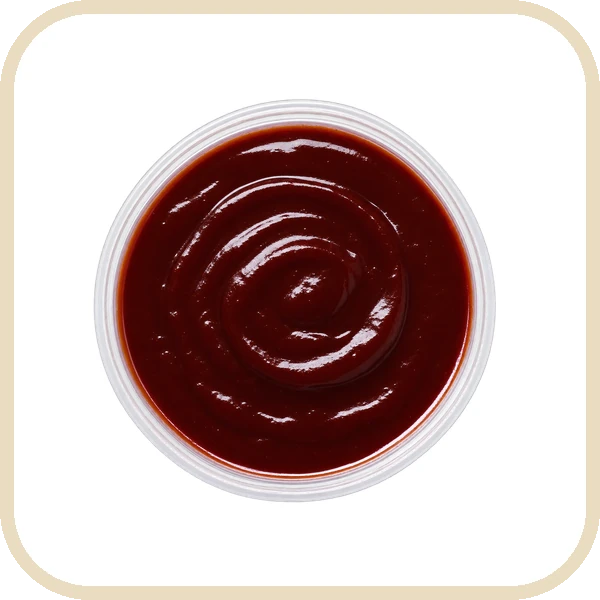
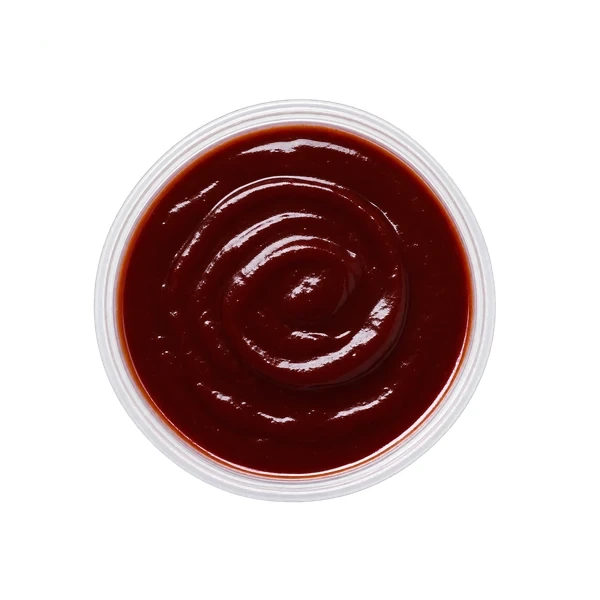
Add files via upload

Changed region(s): [[0.0, 0.0, 1.0, 1.0]]

diff --git a/local-defaults.js b/local-defaults.js
@@ -4,7 +4,7 @@
    Si cambias "version", los valores guardados antes se descartan y vuelven estos.
    ===================================================================== */
 const LOCAL_DEFAULTS = {
-  version: 6,
+  version: 7,
   /* Productos que NO se muestran en el local: los combos de la carta online (el local tiene los suyos). */
   disabledProducts: ["combo-famiglia","combo-doble-capo","combo-mafioso"],
   /* Productos que solo existen en el local. Van al principio de su sección. */
@@ -50,6 +50,8 @@ const LOCAL_DEFAULTS = {
     "combo-complices": { noun:"slices", title:"ELIGE TUS SLICES", items:[
       { n:"Tony Pepperoni", img:"/fotos/local/slice-pepperoni.webp" }, { n:"Funghi", img:"/fotos/local/slice-funghi.webp" },
       { n:"Il Traditore", img:"/fotos/local/slice-pollo-bbq.webp" }, { n:"Margarita", img:"/fotos/local/slice-margarita.webp" } ] },
+    "combo-duo-del-don": { noun:"pastas", title:"ELIGE TUS PASTAS", items:[ { n:"Fetuccini Pesto", img:"/fetuccini-pesto.webp" }, { n:"Fetuccini Alfredo", img:"/fetuccini-alfredo.webp" }, { n:"Fetuccini Bolognesa", img:"/fetuccini-bolognesa.webp" } ] },
+    "l-pasta-familia": { noun:"pastas", title:"ELIGE TUS PASTAS", items:[ { n:"Fetuccini Pesto", img:"/fetuccini-pesto.webp" }, { n:"Fetuccini Alfredo", img:"/fetuccini-alfredo.webp" }, { n:"Fetuccini Bolognesa", img:"/fetuccini-bolognesa.webp" } ] },
     "l-familiar": { noun:"pizzas", title:"ELIGE TU PIZZA XXL", items:[
       { n:"Margarita", img:"/fotos/local/margarita.webp", p:"$24.990" }, { n:"Funghi", img:"/fotos/local/funghi.webp", p:"$24.990" },
       { n:"Tony Pepperoni", img:"/fotos/local/pepperoni.webp", p:"$29.990" }, { n:"Il Traditore", img:"/fotos/local/pollo-bbq.webp", p:"$29.990" },

diff --git a/index.html b/index.html
@@ -91,6 +91,7 @@ main{max-width:1160px;margin:0 auto;padding:0 20px}
 @media(min-width:880px){.list{grid-template-columns:1fr 1fr}}
 
 .item{display:grid;grid-template-columns:minmax(0,1fr) auto;gap:12px 16px;padding:22px 0;border-bottom:1px solid var(--line)}
+#toppings .item .media::after{content:"";position:absolute;inset:0;border:3px solid #E9DCC0;border-radius:16px;pointer-events:none;z-index:3}
 .item .media img.dish{opacity:0;transition:opacity .28s ease}.item .media img.dish.ld{opacity:1}
 .item[hidden],.cat[hidden]{display:none!important}
 .item h3{font:400 24px/1.05 var(--serif);letter-spacing:.03em}
@@ -1557,9 +1558,9 @@ const photoSrc = (it, pi=-1) => {
   return assetPath(f);
 };
 const CART_PHOTO_OVERRIDES = {
-  "top-bbq":"bbq.webp?v=3",
-  "top-pomodoro":"pomodoro.webp?v=3",
-  "top-parmigiano":"parmigiano.webp?v=3"
+  "top-bbq":"bbq.webp?v=4",
+  "top-pomodoro":"pomodoro.webp?v=4",
+  "top-parmigiano":"parmigiano.webp?v=4"
 };
 const cartPhotoSrc = l => CART_PHOTO_OVERRIDES[l.it.id] ? assetPath(CART_PHOTO_OVERRIDES[l.it.id]) : l.thumb;
 

diff --git a/menu-data.js b/menu-data.js
@@ -104,9 +104,9 @@ const MENU = [
     { id:"pollo-gravy", name:"Pollo con Gravy", desc:"Pollo al horno con Salsa Gravy.", price:2990, img:"/pollo-gravy.webp" }
   ]},
   { id:"toppings", name:"Toppings", items:[
-    { id:"top-bbq", name:"BBQ", price:990, img:"/bbq.webp?v=3" },
-    { id:"top-pomodoro", name:"Pomodoro New York", price:990, img:"/pomodoro.webp?v=3" },
-    { id:"top-parmigiano", name:"Parmigiano", price:1290, img:"/parmigiano.webp?v=3" }
+    { id:"top-bbq", name:"BBQ", price:990, img:"/bbq.webp?v=4" },
+    { id:"top-pomodoro", name:"Pomodoro New York", price:990, img:"/pomodoro.webp?v=4" },
+    { id:"top-parmigiano", name:"Parmigiano", price:1290, img:"/parmigiano.webp?v=4" }
   ]},
   { id:"bebidas", name:"Bebidas", compact:true, items:[
     { id:"beb-350", name:"Bebida mini", desc:"Coca-Cola Original, Coca-Cola Zero, Sprite o Fanta.", price:1800, img:"", drinkChoice:{ label:"Elige tu bebida mini", list:["Coca-Cola Original","Coca-Cola Zero","Sprite","Fanta"], suffix:"" } },
